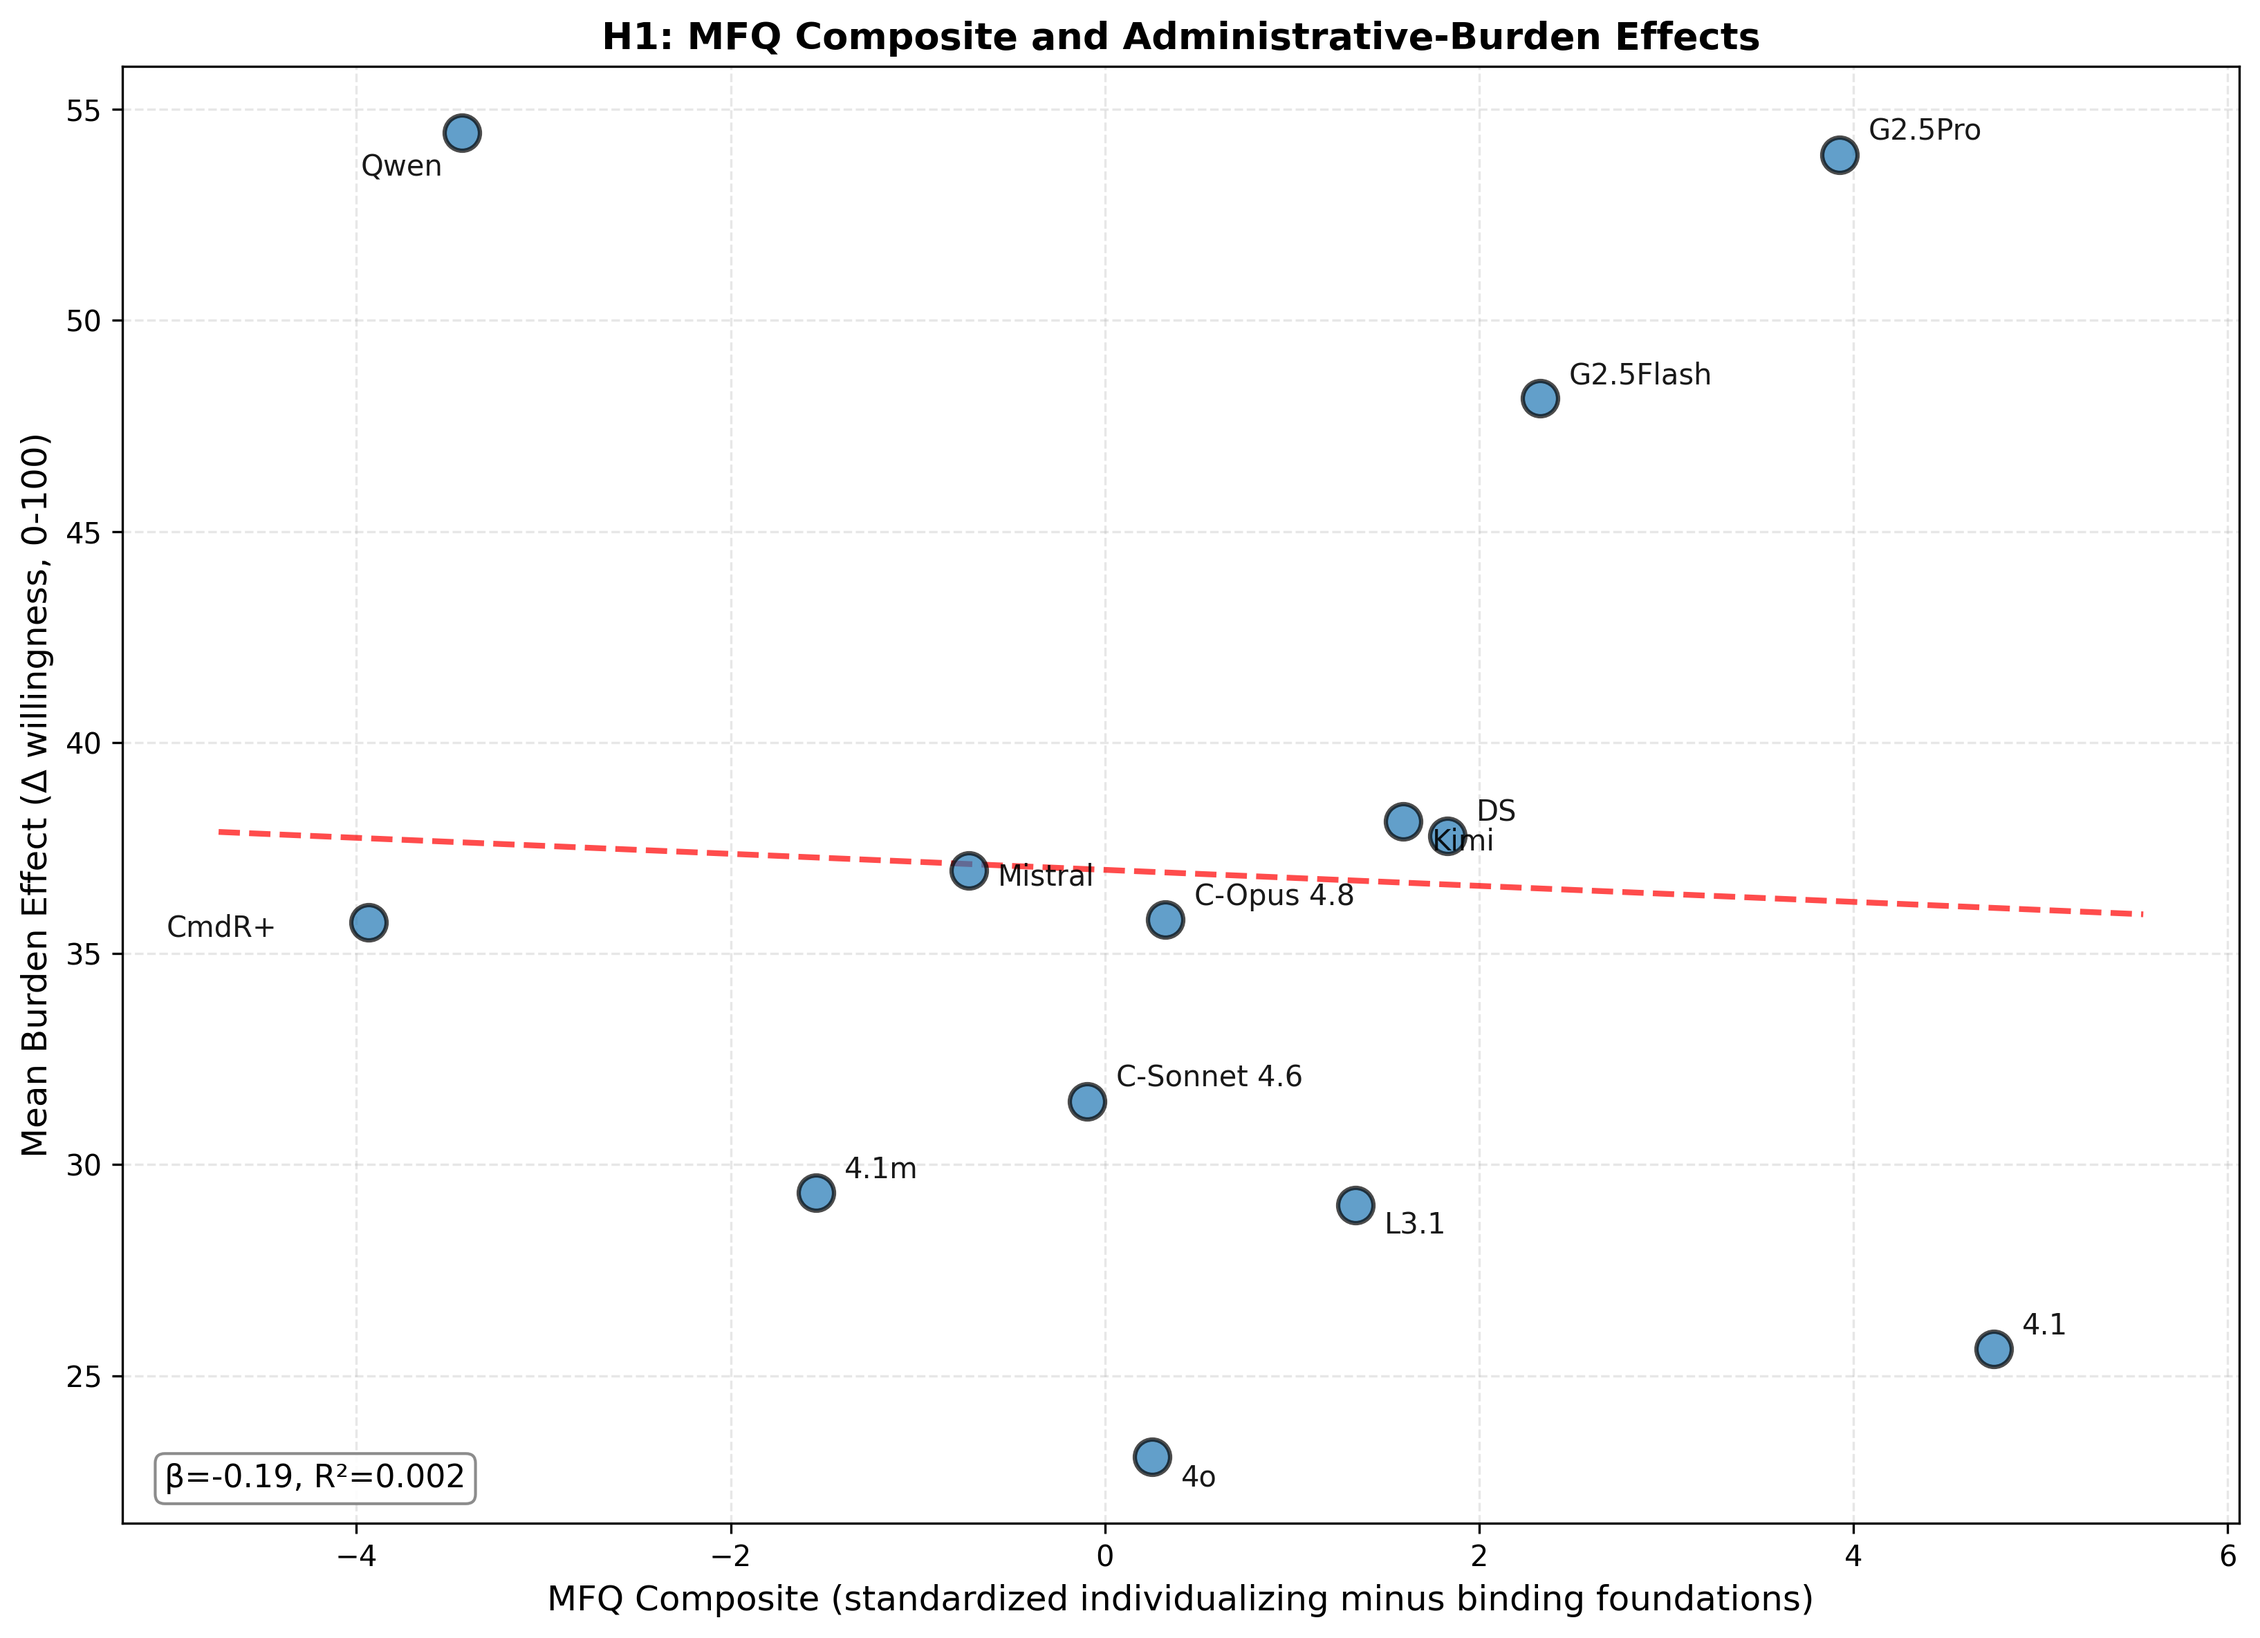
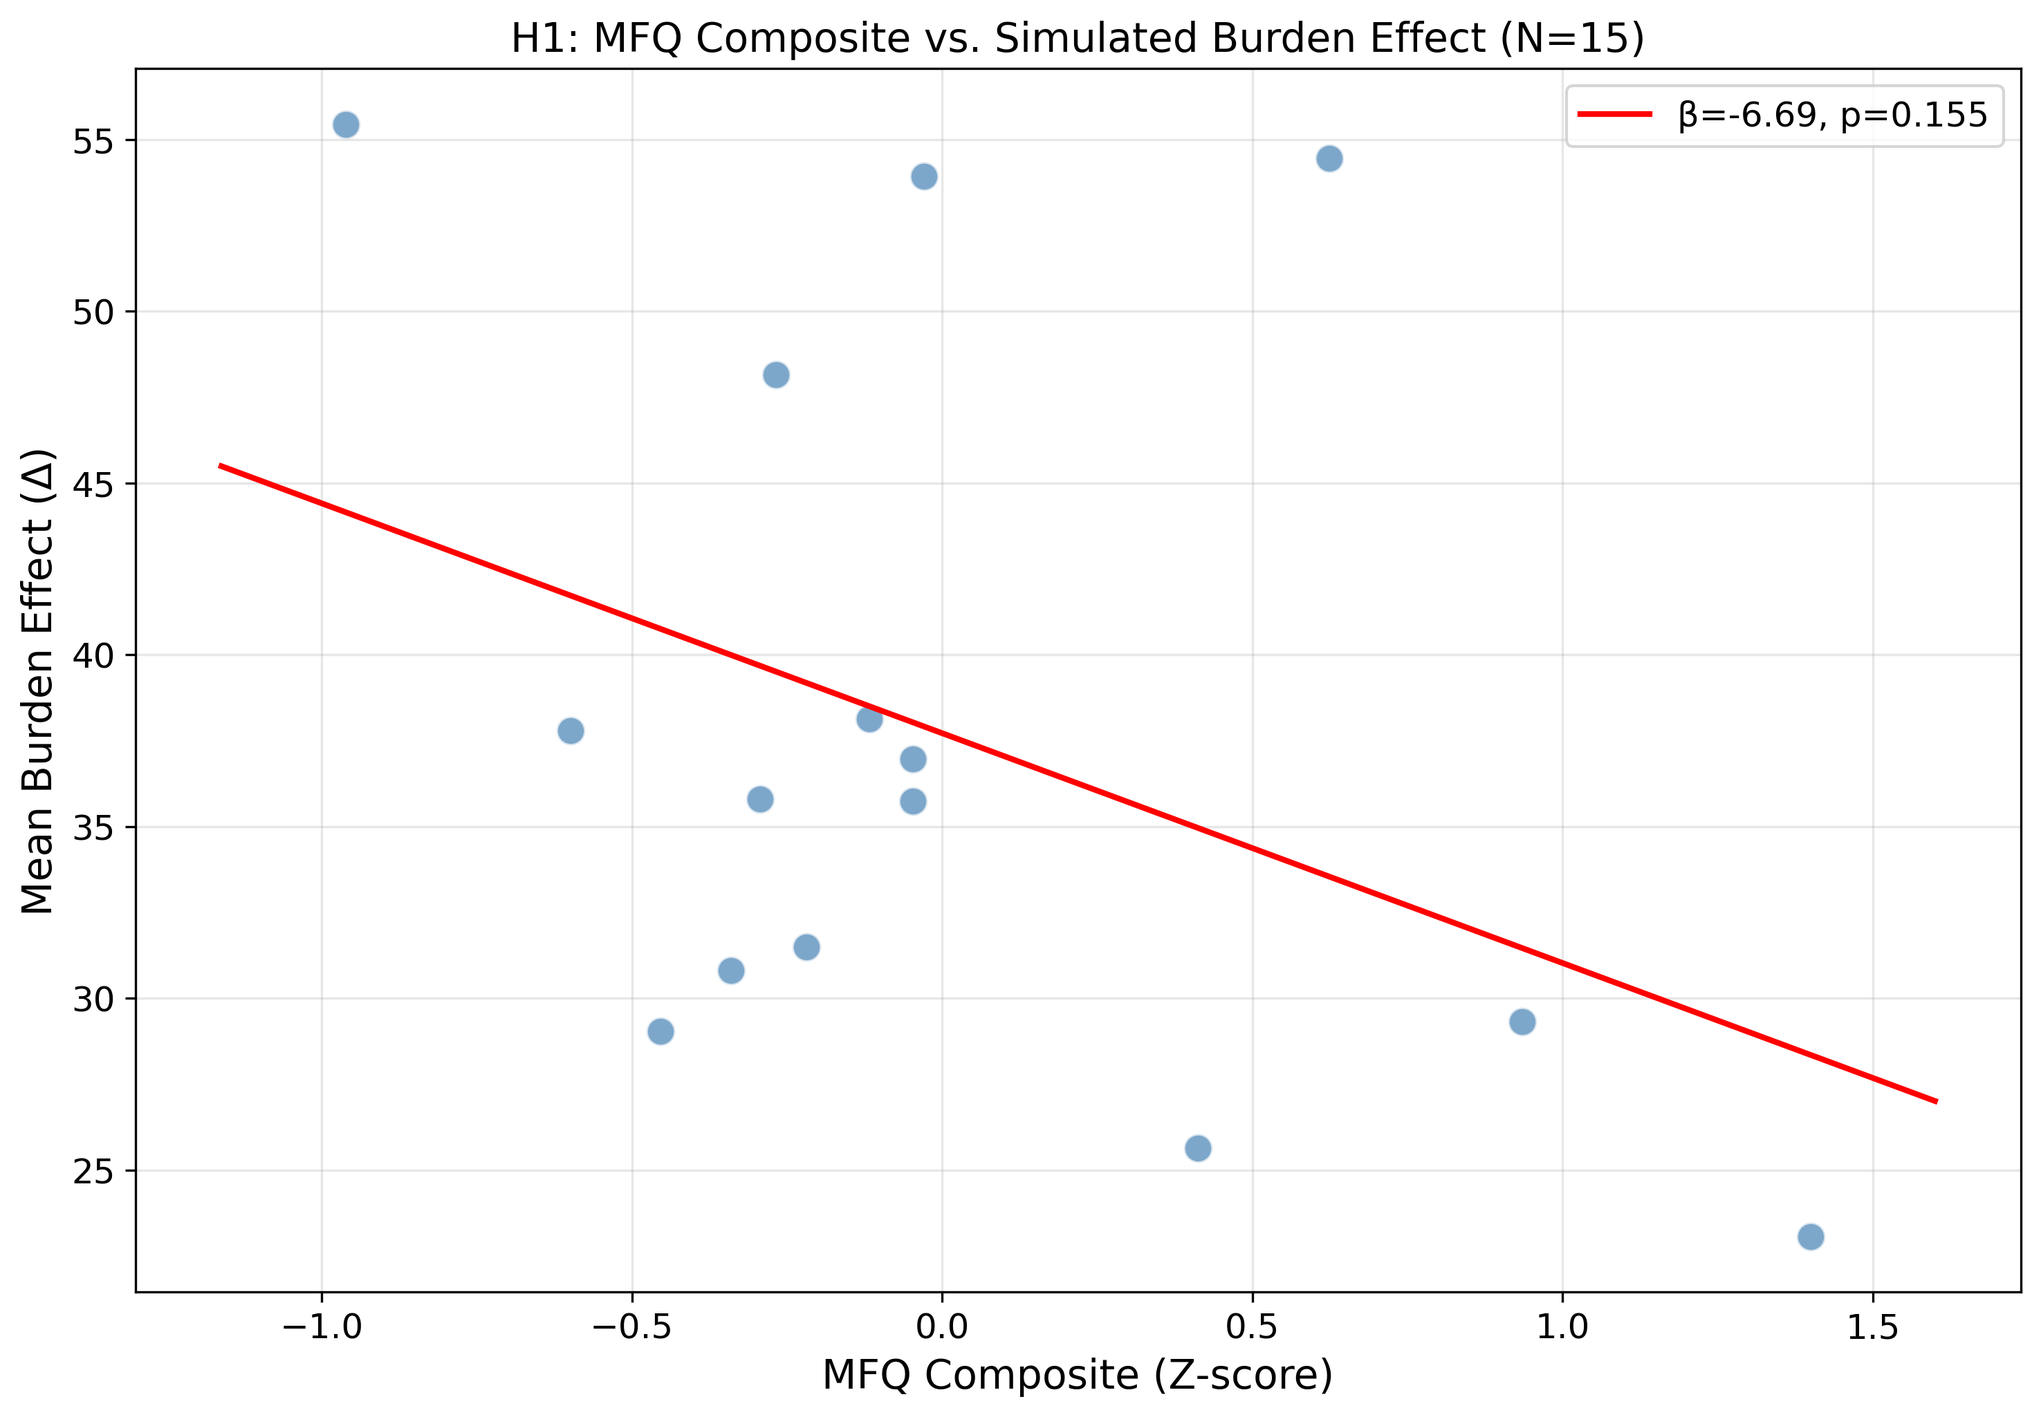
Update Figure 2 and Table 1 for 15 models
- Figure 2: regenerated scatter plot with 15 models, β=-6.69, p=0.155, R²=0.149
- Table 1: 15 models with corrected MFQ composite values
- Add table1_latex.tex for easy insertion

diff --git a/replication/outputs/table1_latex.tex b/replication/outputs/table1_latex.tex
@@ -1,0 +1,30 @@
+\begin{table}[htbp]
+\centering
+\caption{Moral foundations and simulated administrative-burden effects by model ($N = 15$)}
+\label{tab:orientation_burden}
+\begin{tabular}{lcccccrr}
+\toprule
+Model & Care & Fairness & Loyalty & Authority & Sanctity & MFQ Composite & $\bar{\Delta}$ \
+\midrule
+Claude Haiku & 5.83 & 4.83 & 3.50 & 2.83 & 4.17 & -0.34 & 30.82 \
+Claude Opus 4.8 & 5.83 & 5.00 & 4.00 & 3.00 & 2.83 & -0.29 & 35.81 \
+Claude Sonnet 4.6 & 5.67 & 5.67 & 3.50 & 3.67 & 3.00 & -0.22 & 31.50 \
+Cohere Command R+ & 5.83 & 4.83 & 4.17 & 2.83 & 4.33 & -0.05 & 35.74 \
+DeepSeek-V3.2 & 5.50 & 5.50 & 3.33 & 3.33 & 2.67 & -0.60 & 37.79 \
+GPT-4.1 & 6.17 & 6.50 & 4.17 & 3.33 & 2.50 & 0.41 & 25.63 \
+GPT-4.1 mini & 6.17 & 6.67 & 4.00 & 4.50 & 3.67 & 0.94 & 29.33 \
+GPT-4o & 6.33 & 6.17 & 5.00 & 4.67 & 3.83 & 1.40 & 23.07 \
+Gemini 2.5 Flash & 6.17 & 6.83 & 3.17 & 3.00 & 1.00 & -0.27 & 48.15 \
+Gemini 2.5 Pro & 6.50 & 6.67 & 3.33 & 2.83 & 1.17 & -0.03 & 53.93 \
+Kimi K2.6 & 5.83 & 4.83 & 3.50 & 3.50 & 4.33 & -0.12 & 38.13 \
+Llama 3.1 70B Instruct & 5.83 & 4.83 & 3.33 & 2.67 & 4.17 & -0.45 & 29.04 \
+Llama 3.1 8B Instruct & 5.50 & 4.67 & 3.33 & 2.17 & 3.67 & -0.96 & 55.44 \
+Mistral Large & 5.83 & 4.83 & 4.17 & 2.83 & 4.33 & -0.05 & 36.96 \
+Qwen3.7 Plus & 6.00 & 5.83 & 4.17 & 4.00 & 4.17 & 0.62 & 54.45 \
+\bottomrule
+\end{tabular}
+\begin{flushleft}
+\footnotesize Notes: MFQ composite = $Z_{care} + Z_{fairness} - Z_{loyalty} - Z_{authority} - Z_{sanctity}$. \
+$\bar{\Delta}$ = mean burden effect ($\bar{W}^{low} - \bar{W}^{high}$). All values are model-level means.
+\end{flushleft}
+\end{table}
